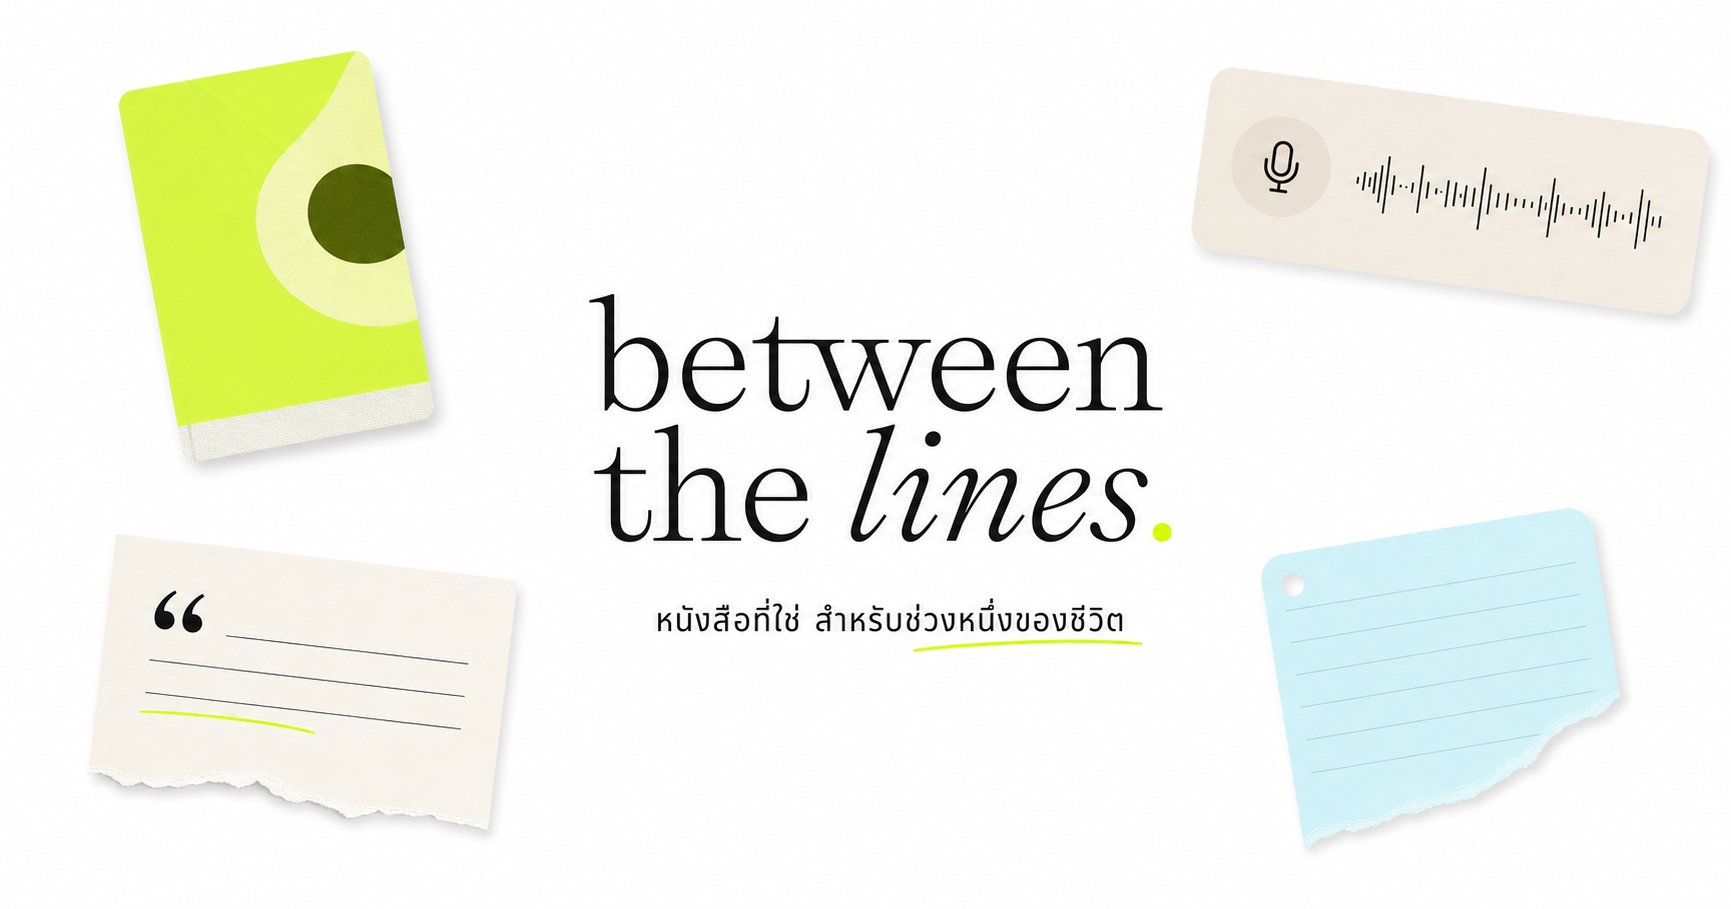
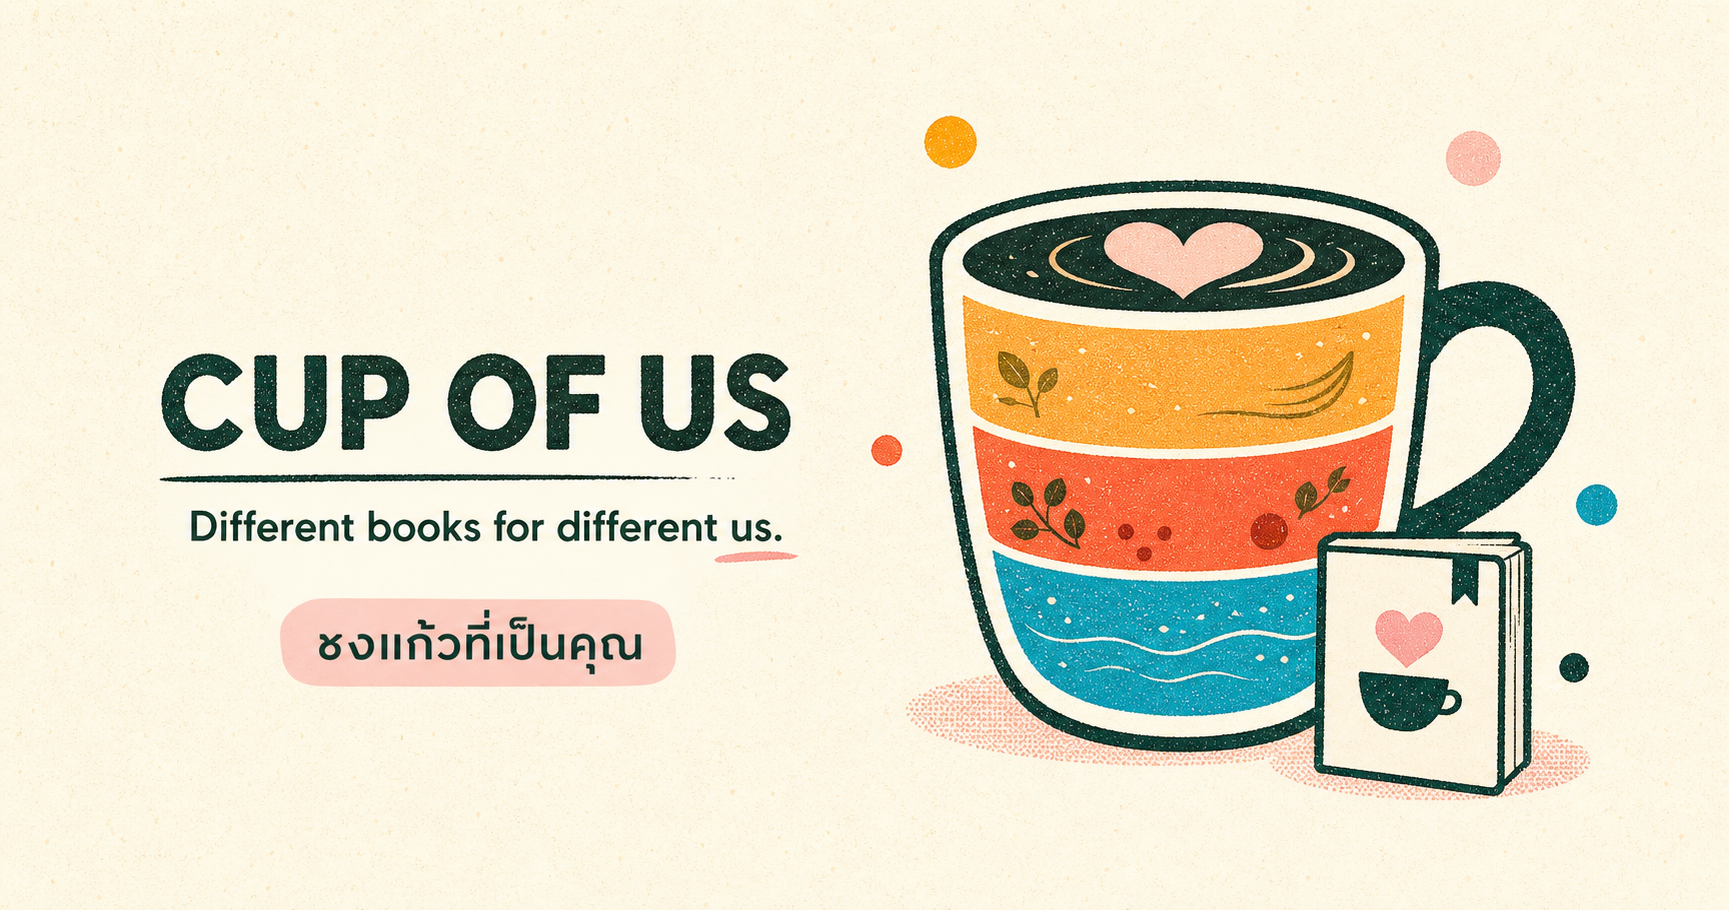
Refresh Cup of Us preview and coffee mixing

diff --git a/app/layout.tsx b/app/layout.tsx
@@ -4,6 +4,18 @@ import "./globals.css";
 export const metadata: Metadata = {
   title: "Cup of Us — Different books for different us",
   description: "ร้านหนังสือในจินตนาการที่เสิร์ฟหนังสือเหมือนเครื่องดื่มหนึ่งแก้ว พร้อมสรุป พอดแคสต์ และกิจกรรม Cup (Club) of Us",
+  openGraph: {
+    title: "Cup of Us",
+    description: "Different books for different us. ชงแก้วที่เป็นคุณ",
+    type: "website",
+    images: [{ url: "https://between-the-lines-th.graphgent-sora.chatgpt.site/og.png", width: 1200, height: 630 }],
+  },
+  twitter: {
+    card: "summary_large_image",
+    title: "Cup of Us",
+    description: "Different books for different us. ชงแก้วที่เป็นคุณ",
+    images: ["https://between-the-lines-th.graphgent-sora.chatgpt.site/og.png"],
+  },
 };
 
 export default function RootLayout({ children }: Readonly<{ children: React.ReactNode }>) {

diff --git a/app/animation.css b/app/animation.css
@@ -8,3 +8,4 @@ body{font-family:"IBM Plex Sans Thai","Noto Sans Thai",Tahoma,sans-serif;letter-
 .profile-icon{width:30px;height:30px;border:1.5px solid var(--ink);border-radius:50%;display:grid!important;place-items:center;color:var(--red);font-size:11px}
 .hero{width:min(100%,1500px);margin-inline:auto;grid-template-columns:minmax(560px,1.05fr) minmax(360px,.72fr);gap:clamp(50px,6vw,105px);padding-left:clamp(55px,6vw,95px);padding-right:clamp(55px,6vw,95px)}.hero-copy{justify-self:end;width:min(100%,700px)}.hero-cup{justify-self:start}.sticker-one{left:24px}.sticker-two{right:28px}.scribble{right:34px}@media(min-width:1800px){.hero{min-height:760px}.hero h1{font-size:94px}}
 @media(max-width:1000px){.hero{grid-template-columns:1fr;width:100%;padding-left:clamp(20px,7vw,70px);padding-right:clamp(20px,7vw,70px)}.hero-copy{justify-self:center;width:min(100%,720px)}.hero-cup{justify-self:center}}
+.empty-cup .cup-layers{inset:-16px;filter:blur(11px) saturate(.82);transform:scale(1.09);animation:mixCoffee 3.2s ease-in-out infinite alternate}.empty-cup .cup-layers:after{content:"";position:absolute;inset:0;background:radial-gradient(ellipse at 25% 65%,rgba(255,253,245,.78),transparent 28%),radial-gradient(ellipse at 76% 35%,rgba(95,45,20,.32),transparent 32%),conic-gradient(from 30deg at 52% 55%,transparent,rgba(255,255,255,.35),transparent 35%,rgba(89,42,20,.2),transparent 70%);mix-blend-mode:soft-light;animation:swirlCoffee 2.2s linear infinite}.empty-cup .cup-layers .layer{border:0!important;opacity:.88;animation:addLayer .55s ease both,meltLayer 2.4s ease-in-out infinite alternate}.empty-cup .layer-0{background:#f0c879}.empty-cup .layer-1{background:#ddb07b}.empty-cup .layer-2{background:#bd7445}.empty-cup .layer-3{background:#ead9bd}.empty-cup .layer-4{background:#8c4f2d}@keyframes mixCoffee{from{transform:scale(1.09) translateX(-3px)}to{transform:scale(1.13) translateX(3px)}}@keyframes swirlCoffee{to{transform:rotate(360deg) scale(1.15)}}@keyframes meltLayer{from{border-radius:38% 62% 45% 55%}to{border-radius:61% 39% 58% 42%;transform:translateY(3px)}}